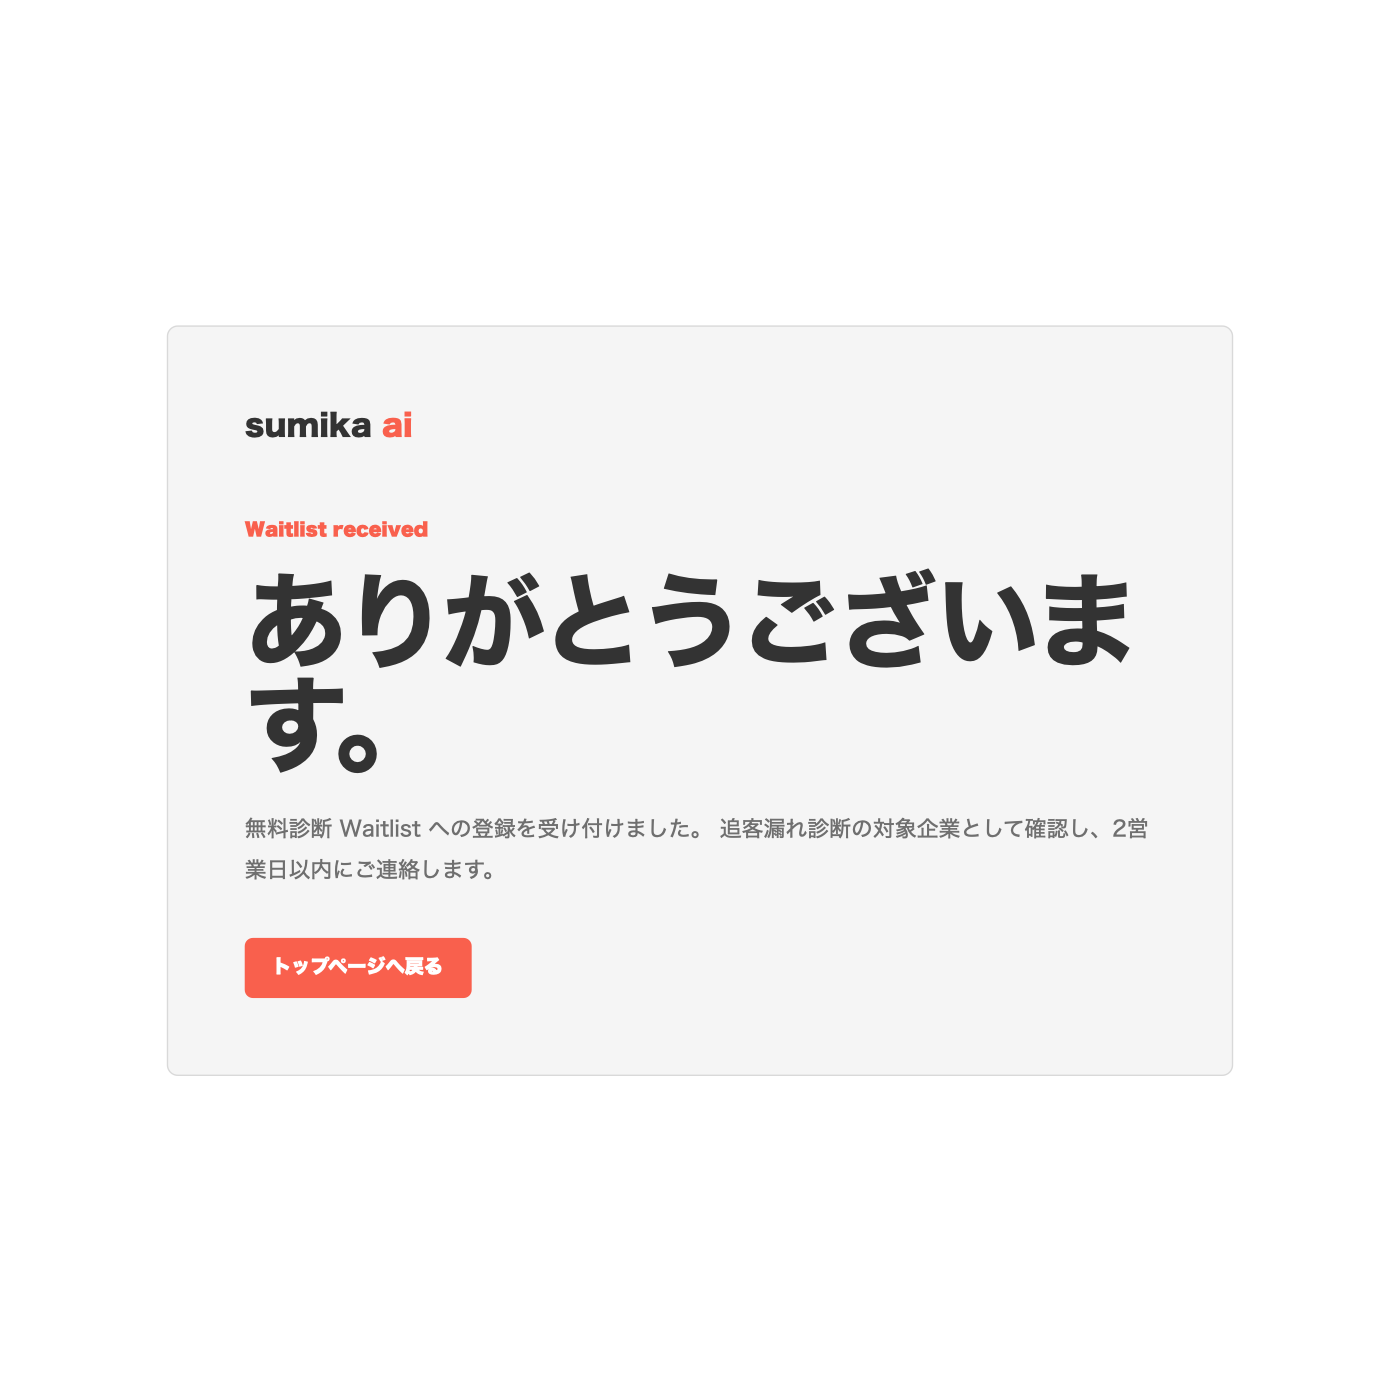
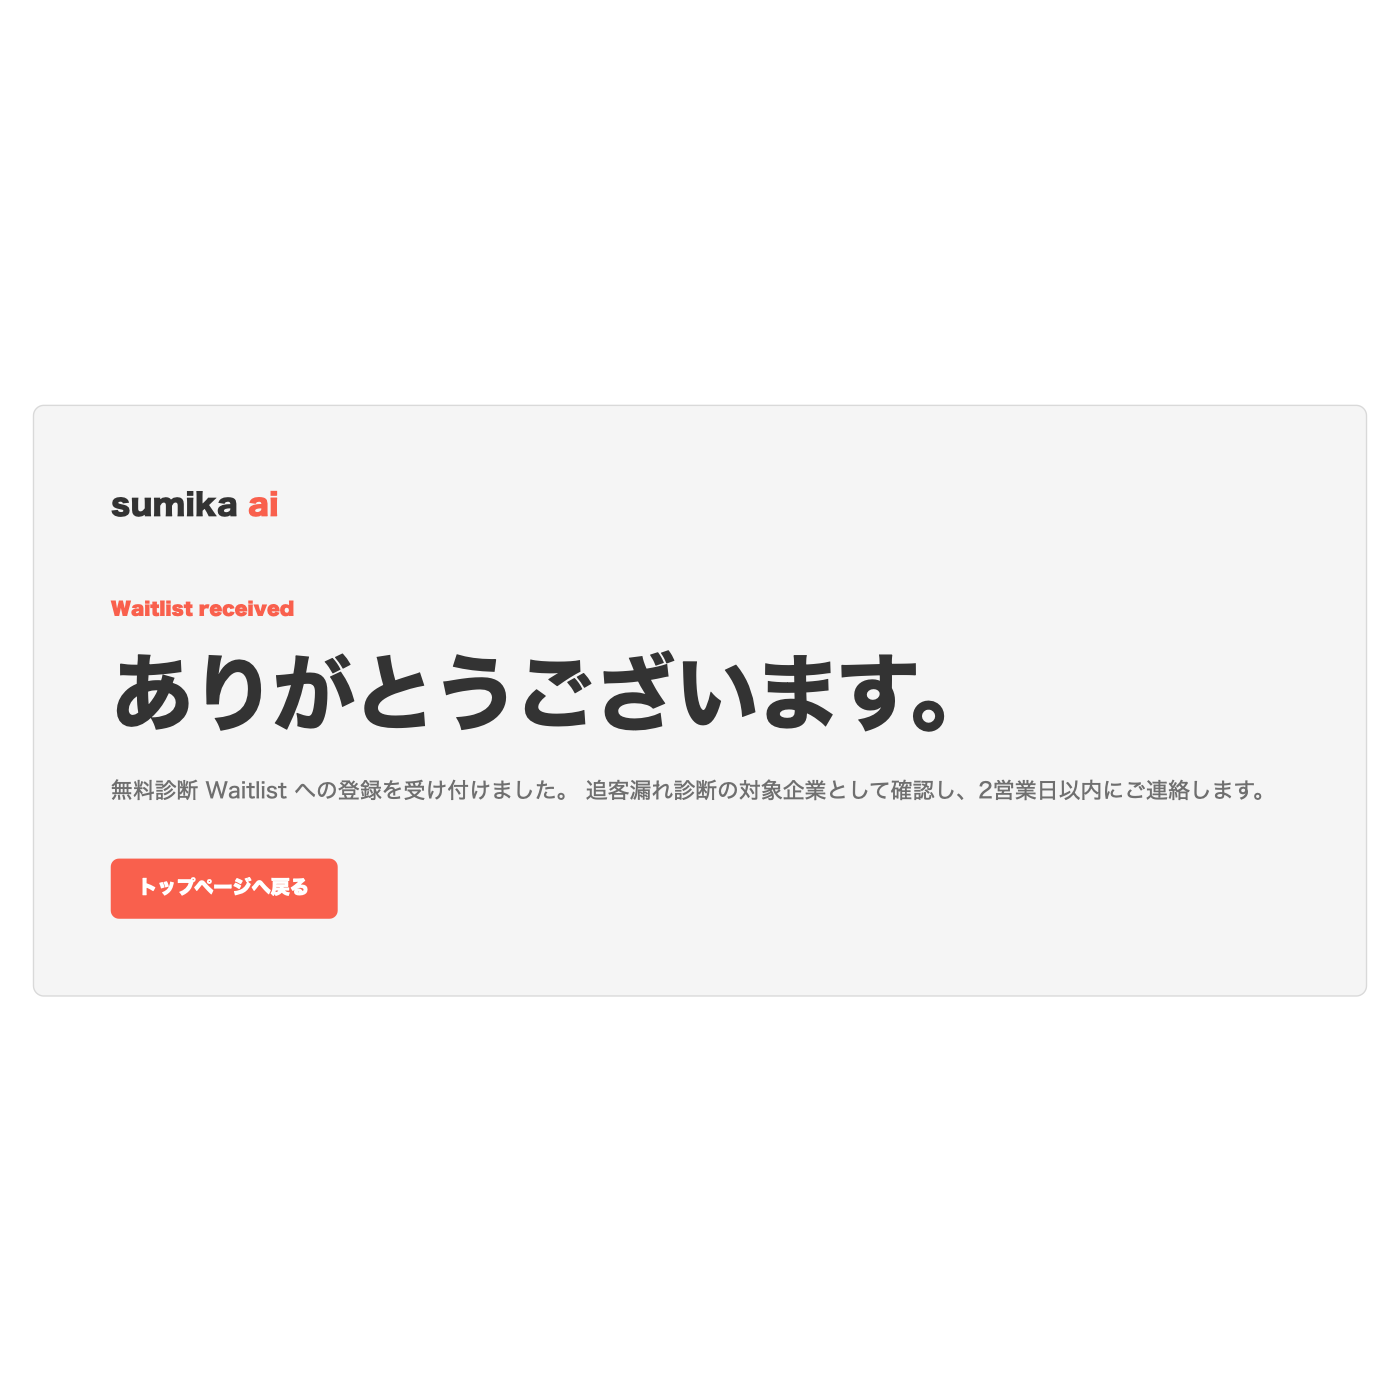
uodate thanks.html

Changed region(s): [[0.0614, 0.2764, 0.8907, 0.7371]]

diff --git a/sumika/thanks.html b/sumika/thanks.html
@@ -132,7 +132,7 @@
       }
 
       main {
-        width: min(780px, calc(100% - 48px));
+        width: min(980px, calc(100% - 48px));
         padding: 56px;
         background: var(--block-soft);
         border: 1px solid var(--line);
@@ -159,9 +159,11 @@
 
       h1 {
         margin: 0 0 24px;
-        font-size: clamp(40px, 8vw, 76px);
-        line-height: 1;
-        letter-spacing: -0.05em;
+        font-size: clamp(40px, 6vw, 68px);
+        line-height: 1.08;
+        letter-spacing: -0.04em;
+        word-break: keep-all;
+        line-break: strict;
       }
 
       p {
@@ -187,7 +189,7 @@
 
       @media (max-width: 640px) {
         main {
-          width: min(100% - 32px, 780px);
+          width: min(100% - 32px, 980px);
           padding: 30px;
         }
       }